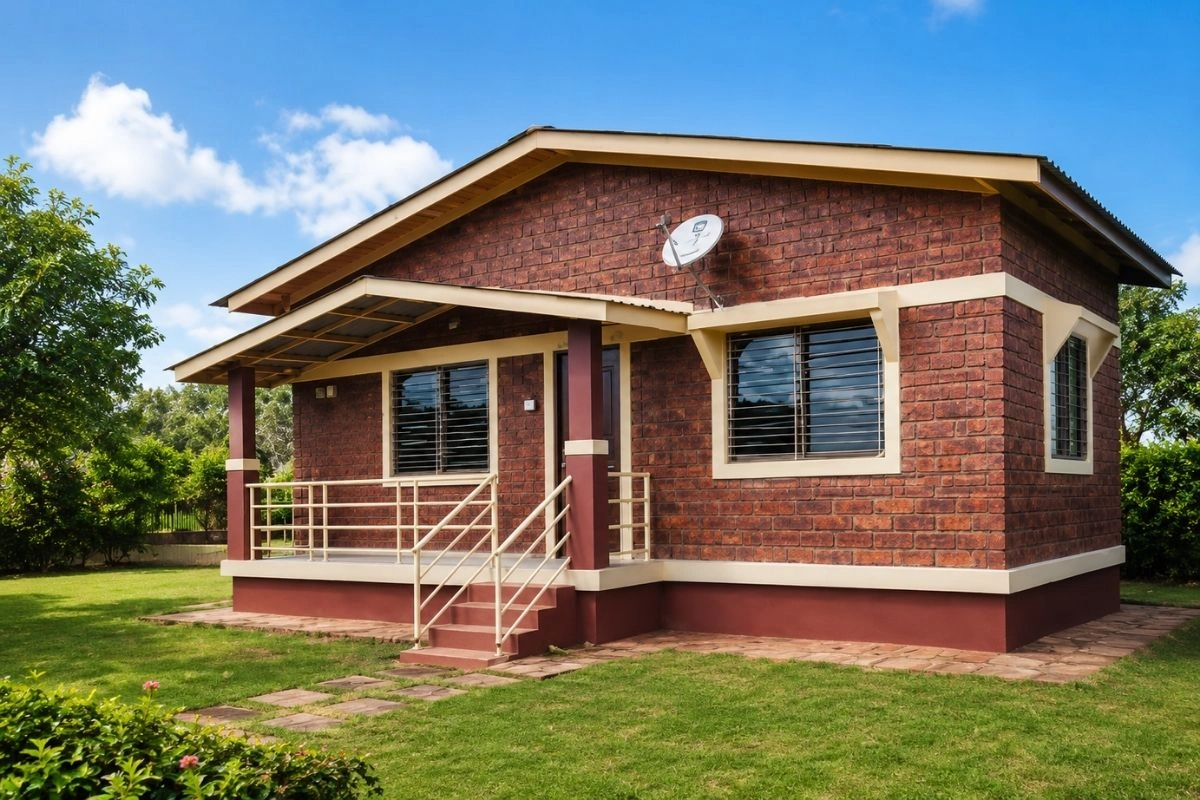
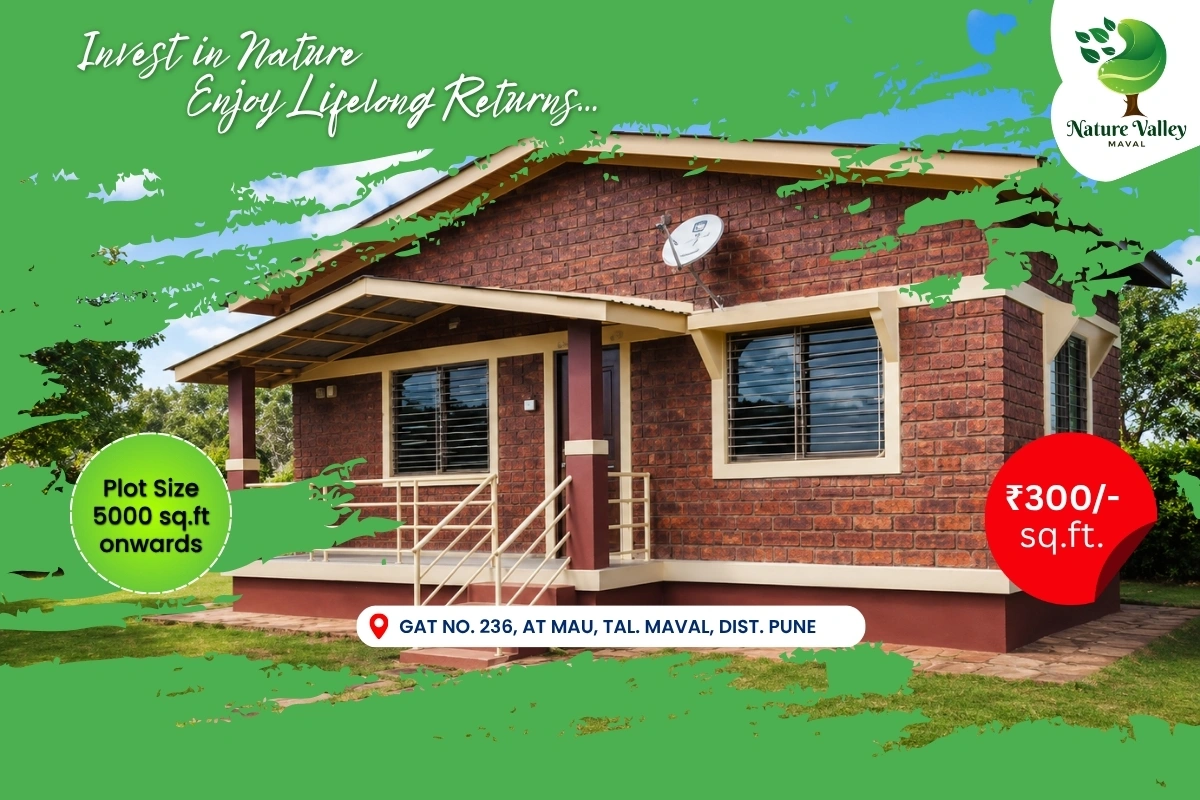
feat: prepare website for deployment

diff --git a/src/app/shared/components/hero-slider/hero-slider.scss b/src/app/shared/components/hero-slider/hero-slider.scss
@@ -4,8 +4,10 @@
   position: relative;
   width: 100%;
   height: calc(100vh - 72px);
-  min-height: 650px;
+  min-height: 700px;
   overflow: hidden;
+  display: flex;
+  align-items: center;
 }
 
 .slide {
@@ -13,67 +15,91 @@
   inset: 0;
   opacity: 0;
   visibility: hidden;
-  transition: opacity .8s ease;
+
   background-size: cover;
   background-position: center;
   background-repeat: no-repeat;
 
+  transform: scale(1.08);
+
+  transition:
+    opacity .8s ease,
+    transform 8s ease;
+
   &.active {
     opacity: 1;
     visibility: visible;
+    transform: scale(1);
     z-index: 2;
   }
 }
 
-.overlay {
-  width: 100%;
-  height: 100%;
-  background: linear-gradient(
-    90deg,
-    rgba(0, 0, 0, .75) 0%,
-    rgba(0, 0, 0, .55) 45%,
-    rgba(0, 0, 0, .25) 100%
-  );
-
-  display: flex;
-  align-items: center;
-}
-
 .container {
   @include container;
+  position: relative;
+  z-index: 5;
 }
 
 .content {
   max-width: 650px;
   color: $white;
+
+  opacity: 0;
+  transform: translateY(50px);
+
+  transition: all .8s ease;
+}
+
+.slide.active .content {
+  opacity: 1;
+  transform: translateY(0);
 }
 
 .subtitle {
   display: inline-block;
+
   margin-bottom: 1rem;
-  padding: .5rem 1rem;
+  padding: .6rem 1.25rem;
+
   border-radius: $radius-full;
-  background: rgba($primary-500, .15);
-  border: 1px solid rgba($white, .2);
+
+  background: $primary-700;
+
   color: $white;
-  font-weight: 600;
+
+  font-size: .85rem;
+  font-weight: 700;
   letter-spacing: 1px;
   text-transform: uppercase;
+
+  box-shadow: $shadow-sm;
+  text-shadow: 0 2px 6px rgba(0, 0, 0, .15);
 }
 
 h1 {
   margin: 0 0 1.5rem;
-  font-size: clamp(2.5rem, 6vw, 5rem);
-  line-height: 1.1;
+
+  font-size: clamp(2.8rem, 6vw, 5rem);
+  line-height: 1.08;
   font-weight: 800;
+
+  color: $white;
+
+  letter-spacing: -.03em;
+
+  text-shadow: 0 5px 20px rgba(0, 0, 0, .25);
 }
 
 p {
   margin-bottom: 2rem;
-  max-width: 600px;
-  color: rgba($white, .92);
+  max-width: 620px;
+
+  color: rgba($white, .96);
+
   font-size: 1.1rem;
   line-height: 1.8;
+
+  text-shadow: 0 2px 10px rgba(0, 0, 0, .18);
 }
 
 .buttons {
@@ -86,31 +112,39 @@ p {
   display: inline-flex;
   align-items: center;
   justify-content: center;
+
   padding: 1rem 2rem;
+
   border-radius: $radius-md;
+
   text-decoration: none;
   font-weight: 700;
-  transition: .3s;
+
+  transition: all .3s ease;
 }
 
 .btn-primary {
-  background: $primary-700;
-  color: $white;
+  background: $primary;
+  color: $black;
+
+  box-shadow: 0 14px 35px rgba($primary-700, .35);
 
   &:hover {
     background: $primary-600;
-    transform: translateY(-3px);
+    transform: translateY(-4px);
+    box-shadow: 0 20px 40px rgba($primary-700, .45);
   }
 }
 
 .btn-secondary {
+  background: transparent;
   border: 2px solid $white;
   color: $white;
-  background: transparent;
 
   &:hover {
     background: $white;
     color: $primary-700;
+    transform: translateY(-4px);
   }
 }
 
@@ -118,20 +152,28 @@ p {
   position: absolute;
   top: 50%;
   transform: translateY(-50%);
-  width: 56px;
-  height: 56px;
-  border: none;
+
+  width: 58px;
+  height: 58px;
+
+  border: 1px solid rgba($white, .35);
   border-radius: 50%;
-  background: rgba($white, .15);
-  backdrop-filter: blur(10px);
+
+  background: rgba($white, .12);
+
   color: $white;
+
   font-size: 1.5rem;
+
   cursor: pointer;
-  transition: .3s;
-  z-index: 5;
+
+  transition: all .3s ease;
+
+  z-index: 10;
 
   &:hover {
     background: $primary-700;
+    transform: translateY(-50%) scale(1.08);
   }
 }
 
@@ -147,31 +189,42 @@ p {
   position: absolute;
   left: 50%;
   bottom: 2rem;
+
   transform: translateX(-50%);
+
   display: flex;
-  gap: .75rem;
-  z-index: 5;
+  gap: .8rem;
+
+  z-index: 10;
 }
 
 .dot {
-  width: 14px;
-  height: 14px;
+  width: 12px;
+  height: 12px;
+
   border: none;
-  border-radius: 50%;
-  background: rgba($white, .4);
+  border-radius: 999px;
+
+  background: rgba($white, .45);
+
   cursor: pointer;
-  transition: .3s;
+
+  transition: all .35s ease;
+
+  &:hover {
+    background: rgba($white, .8);
+  }
 
   &.active {
-    background: $primary-500;
-    transform: scale(1.3);
+    width: 36px;
+    background: $primary;
   }
 }
 
 @include tablet-down {
 
   .hero {
-    min-height: 550px;
+    min-height: 600px;
   }
 
   .content {
@@ -192,6 +245,7 @@ p {
   }
 
   p {
+    margin-inline: auto;
     font-size: 1rem;
   }
 
@@ -201,27 +255,29 @@ p {
 
   .hero {
     height: 85vh;
-    min-height: 500px;
+    min-height: 520px;
   }
 
   h1 {
-    font-size: 2.2rem;
-  }
-
-  .buttons {
-    flex-direction: column;
-  }
-
-  .btn {
-    width: 100%;
+    font-size: 2.25rem;
   }
 
   .subtitle {
-    font-size: .8rem;
+    font-size: .75rem;
+    padding: .5rem 1rem;
   }
 
   p {
     font-size: .95rem;
+  }
+
+  .buttons {
+    flex-direction: column;
+    gap: .75rem;
+  }
+
+  .btn {
+    width: 100%;
   }
 
 }

diff --git a/src/index.html b/src/index.html
@@ -2,10 +2,10 @@
 <html lang="en">
   <head>
     <meta charset="utf-8" />
-    <title>Goodwinct</title>
+    <title>Goodwincity</title>
     <base href="/" />
     <meta name="viewport" content="width=device-width, initial-scale=1" />
-    <link rel="icon" type="image/x-icon" href="favicon.ico" />
+    <link rel="icon" type="image/x-icon" href="assets/images/logo/image.png" />
     <link rel="preconnect" href="https://fonts.googleapis.com" />
     <link rel="preconnect" href="https://fonts.gstatic.com" crossorigin />
     <link

diff --git a/src/app/shared/components/hero/hero.ts b/src/app/shared/components/hero/hero.ts
@@ -6,8 +6,8 @@ import { SiteService } from '../../../core/services/site.service';
 @Component({
   selector: 'app-hero',
   standalone: true,
-  imports: [
-    RouterLink
+  imports:[
+    RouterLink,
   ],
   templateUrl: './hero.html',
   styleUrl: './hero.scss',
